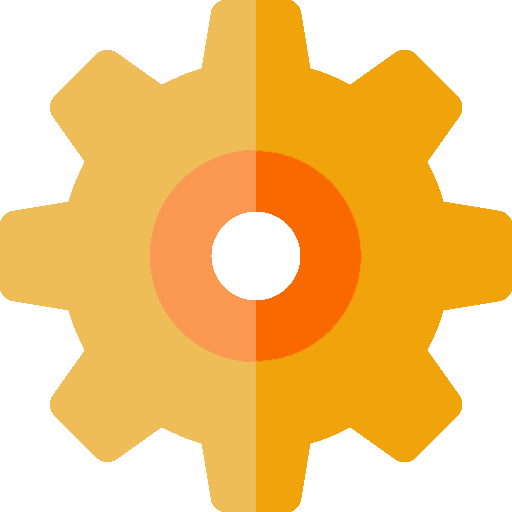
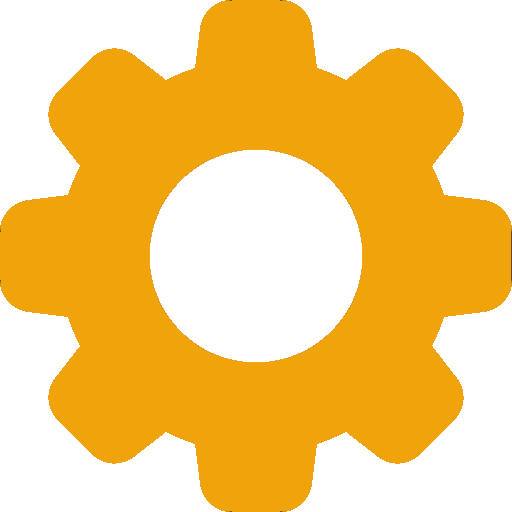
Bouton pour afficher ou masquer le clavier

diff --git a/Qml/Main.qml b/Qml/Main.qml
@@ -22,9 +22,9 @@ import "./Controllers"
 Window {
   id: window
   width: 1000
-  height: 690
+  height: 720
   minimumWidth: 964
-  minimumHeight: 612
+  minimumHeight: 652
   visible: true
   title: "TiCalcul... by David"
 
@@ -62,6 +62,7 @@ Window {
       anchors.fill: parent
       anchors.margins: 12
       columnSpacing: 0
+      rowSpacing: 0
       columns: 3
 
       // ----------------------------------------------------------------
@@ -72,6 +73,7 @@ Window {
         Layout.fillWidth: true
         Layout.fillHeight: false
         Layout.columnSpan: 3
+        Layout.bottomMargin: 4
         height: 32
       }
       // ----------------------------------------------------------------
@@ -99,12 +101,23 @@ Window {
         Layout.fillHeight: true
       }
       // ----------------------------------------------------------------
+      // ------------------ Middle bar ----------------------------------
+      // ----------------------------------------------------------------
+      MiddleBar {
+        id: middlebar
+        Layout.fillWidth: true
+        Layout.fillHeight: false
+        Layout.columnSpan: 3
+        height: 32
+      }
+      // ----------------------------------------------------------------
       // ------------------ Clavier -------------------------------------
       // ----------------------------------------------------------------
       Keyboard {
+        id: keyboard
         Layout.fillHeight: true
         Layout.fillWidth: true
-        Layout.topMargin: 20
+        //Layout.topMargin: 20
         Layout.rowSpan: 1
         Layout.columnSpan: 3
       }

diff --git a/Qml/Controllers/MiddleBar.qml b/Qml/Controllers/MiddleBar.qml
@@ -1,0 +1,39 @@
+import QtQuick
+import "../Vues"
+
+/* ********************************************************************************************************** */
+
+
+/*!
+  \qmltype MiddleBar
+  \inqmlmodule QTiCalcul
+  \inherits MiddleBarForm
+  \brief Controleur pour le bouton qui affiche ou masque le clavier \l Keyboard.
+ */
+MiddleBarForm {
+
+  btHideKb.onClicked: {
+    // On mémorise la taille précédente de la fenêtre
+    var previousheight = window.height
+    console.debug("taille précedente:", previousheight)
+
+    // On masque le clavier
+    if (keyboard.visible) {
+      console.debug("hide keyboard")
+      keyboard.visible = false
+      // on redimentionne la fenêtre (et sa borne Min)
+      window.minimumHeight = window.minimumHeight - keyboard.height
+      window.height = previousheight - keyboard.height
+      console.debug("nouvelle taille:", window.height)
+    }
+    // On affiche le clavier
+    else {
+      console.debug("show keyboard")
+      keyboard.visible = true
+      // on redimentionne la fenêtre (et sa borne Min)
+      window.height = previousheight + keyboard.height
+      window.minimumHeight = window.minimumHeight + keyboard.height
+      console.debug("nouvelle taille:", window.height)
+    }
+  }
+}

diff --git a/Qml/Vues/MiddleBarForm.ui.qml b/Qml/Vues/MiddleBarForm.ui.qml
@@ -1,0 +1,31 @@
+import QtQuick
+import QtQuick.Layouts
+import QtQuick.Controls 2.15
+
+
+/*!
+  \qmltype MittelBarForm
+  \inqmlmodule QTiCalcul
+  \brief Ligne discrète avec le bouton btHideKb, pour masquer et afficher le clavier \l Keyboard.
+ */
+Item {
+  /*! Alias pour controller le bouton btHideKb */
+  property alias btHideKb: btHideKb
+
+  // ----------------------------------------------------------------
+  // Bouton Hide Keyboard
+  // ----------------------------------------------------------------
+  Button {
+    id: btHideKb
+
+    anchors.right: parent.right
+    display: AbstractButton.IconOnly
+    icon.source: keyboard.visible ? "qrc:/Images/close.png" : "qrc:/Images/open.png"
+    icon.height: 28
+    icon.width: 28
+
+    background: Rectangle {
+      color: "transparent"
+    }
+  }
+}

diff --git a/Qml/Vues/TopBarForm.ui.qml b/Qml/Vues/TopBarForm.ui.qml
@@ -10,8 +10,6 @@ import QtQuick.Controls 2.15
  */
 RowLayout {
   property alias btAbout: btAbout
-  // implicitWidth: 800
-  //width: 800
   spacing: 0
 
   // ----------------------------------------------------------------
@@ -38,7 +36,7 @@ RowLayout {
     id: btAbout
     Layout.alignment: Qt.AlignRight | Qt.AlignBottom
     display: AbstractButton.IconOnly
-    icon.source: "qrc:/Images/settings_amb.png"
+    icon.source: "qrc:/Images/settings.png"
     icon.height: 28
     icon.width: 28
 
